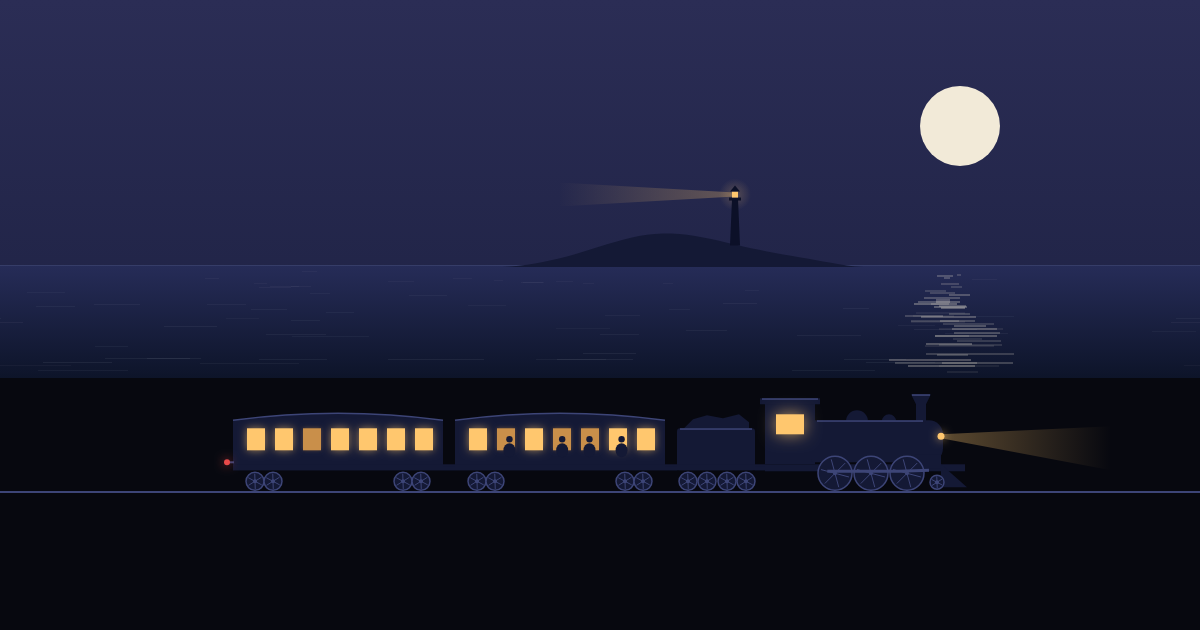
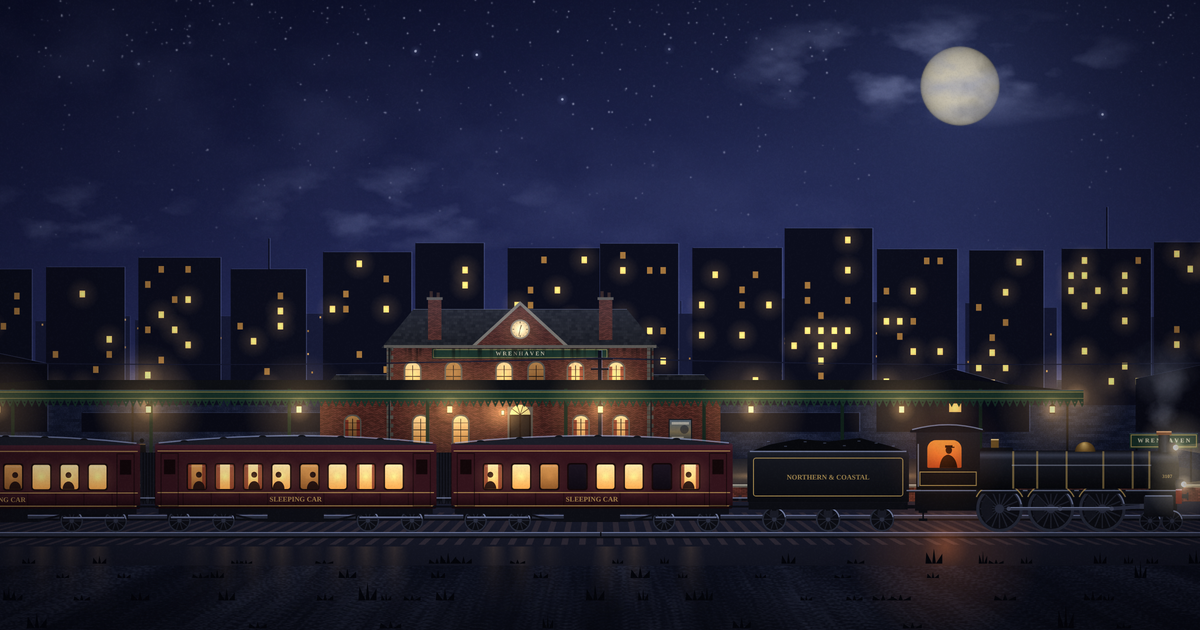
Rebuild 7: mobile, performance, share links, preview image
- Fix phones zooming out to empty sky: canvas fixed to the screen
- Cap pixel ratio at 2; drop to fewer pixels when frames are slow
- Skip drawing tunnel hills while they are off screen
- Share links: ?journey=<seed> replays a journey, Share button
- Smaller text and buttons on short screens
- New og.png and meta description
- README rewritten in the style of the other project READMEs, with a banner drawn from the scene's own code

diff --git a/main.js b/main.js
@@ -3,16 +3,44 @@ let activeWeather;
 let activeBiome;
 let layers = [];
 
+// Phone screens can have three pixels for every CSS pixel. Past two, the
+// difference can't be seen, but it costs more than twice the work.
+const maxPixelRatio = 2;
+
+// Lowered when the device can't keep up, so the scene is drawn with fewer
+// pixels and stretched to fill the screen.
+let renderScale = 1;
+
 function resize() {
-  const pixelRatio = window.devicePixelRatio || 1;
-  canvas.width = window.innerWidth * pixelRatio;
-  canvas.height = window.innerHeight * pixelRatio;
-  canvas.style.width = window.innerWidth + "px";
-  canvas.style.height = window.innerHeight + "px";
+  const pixelRatio = Math.min(window.devicePixelRatio || 1, maxPixelRatio) * renderScale;
+  canvas.width = Math.round(window.innerWidth * pixelRatio);
+  canvas.height = Math.round(window.innerHeight * pixelRatio);
   ctx.scale(pixelRatio, pixelRatio);
   updateCamera();
   createFinish();
   if (journey) buildSky();
+}
+
+// Every few seconds, check the average frame time. Slower than 40 frames a
+// second, drop to fewer pixels, down to half.
+const slowFrameSeconds = 1 / 40;
+const speedCheckSeconds = 3;
+let secondsMeasured = 0;
+let framesMeasured = 0;
+
+function checkSpeed(dt) {
+  // The first seconds are skipped while the page settles in.
+  if (motion.clock < 2) return;
+  secondsMeasured += dt;
+  framesMeasured++;
+  if (secondsMeasured < speedCheckSeconds) return;
+  const averageFrameSeconds = secondsMeasured / framesMeasured;
+  secondsMeasured = 0;
+  framesMeasured = 0;
+  if (averageFrameSeconds > slowFrameSeconds && renderScale > 0.5) {
+    renderScale -= 0.15;
+    resize();
+  }
 }
 
 let lastTime = 0;
@@ -28,6 +56,7 @@ function loop(currentTime) {
   updateTimeline(dt);
   updateSound(dt);
   draw();
+  checkSpeed(dt);
 
   requestAnimationFrame(loop);
 }
@@ -48,6 +77,50 @@ function draw() {
   drawTunnel();
   drawFinish();
 }
+
+// A journey can be shared as a link: ?journey=1234 replays journey 1234.
+function getSeedFromLink() {
+  const text = new URLSearchParams(location.search).get("journey");
+  if (text === null) return null;
+  const seed = Number(text);
+  if (Number.isInteger(seed) && seed >= 0) return seed;
+  return null;
+}
+
+// The address bar always holds the journey on screen, ready to be shared.
+function updateLink() {
+  try {
+    history.replaceState(null, "", `?journey=${journey.seed}`);
+  } catch {
+    // Some browsers refuse this for pages opened from disk. Nothing breaks.
+  }
+}
+
+const shareButton = document.getElementById("share");
+
+function flashShareButton(text) {
+  shareButton.textContent = text;
+  setTimeout(() => (shareButton.textContent = "Share"), 2000);
+}
+
+// Phones get their own share menu; elsewhere the link is copied.
+shareButton.addEventListener("click", async () => {
+  const isTouchScreen = window.matchMedia("(pointer: coarse)").matches;
+  if (navigator.share && isTouchScreen) {
+    try {
+      await navigator.share({ title: "Sleeper", text: createJourneyLabel(journey), url: location.href });
+    } catch {
+      // Closing the share menu counts as an error. Nothing to do.
+    }
+    return;
+  }
+  try {
+    await navigator.clipboard.writeText(location.href);
+    flashShareButton("Link copied");
+  } catch {
+    flashShareButton("Copy the address");
+  }
+});
 
 const journeyLabel = document.getElementById("journey-label");
 
@@ -78,7 +151,7 @@ window.addEventListener("resize", () => {
 createGroundPattern();
 createFogTexture();
 resize();
-startJourney(randomSeed());
+startJourney(getSeedFromLink() ?? randomSeed());
 showJourneyLabel();
 if (prefersReducedMotion) {
   // A still frame has nothing happening to hear.

diff --git a/index.html b/index.html
@@ -4,18 +4,18 @@
   <meta charset="UTF-8">
   <meta name="viewport" content="width=device-width, initial-scale=1">
   <title>Sleeper</title>
-  <meta name="description" content="A night train you watch from outside. Every journey is different: city lights, pine forest, open fields, a moonlit coast and mountains, in clear skies, rain or snow. Everything on screen is drawn by code.">
+  <meta name="description" content="A night train you watch from outside. Every journey is different: stations, tunnels, five landscapes and four weathers. Everything you see and hear is made by code.">
   <meta name="theme-color" content="#090b18">
   <meta name="color-scheme" content="dark">
 
   <meta property="og:type" content="website">
   <meta property="og:title" content="Sleeper">
-  <meta property="og:description" content="A night train you watch from outside. Every journey is different: city lights, pine forest, open fields, a moonlit coast and mountains, in clear skies, rain or snow. Everything on screen is drawn by code.">
+  <meta property="og:description" content="A night train you watch from outside. Every journey is different: stations, tunnels, five landscapes and four weathers. Everything you see and hear is made by code.">
   <meta property="og:url" content="https://bytiagodev.github.io/sleeper/">
   <meta property="og:image" content="https://bytiagodev.github.io/sleeper/og.png">
   <meta property="og:image:width" content="1200">
   <meta property="og:image:height" content="630">
-  <meta property="og:image:alt" content="A lit steam train crossing a moonlit landscape at night">
+  <meta property="og:image:alt" content="A sleeper train standing at a city station at night">
   <meta name="twitter:card" content="summary_large_image">
 
   <!-- The icon is written inline as a vector, so it needs no image file. -->
@@ -35,6 +35,7 @@
     </div>
     <div class="buttons">
       <button id="sound-toggle" type="button" aria-pressed="false">Sound: off</button>
+      <button id="share" type="button">Share</button>
       <button id="new-journey" type="button">New journey</button>
     </div>
   </div>

diff --git a/js/tunnels.js b/js/tunnels.js
@@ -53,6 +53,7 @@ function createTunnelLayers(mouthX, direction, seed) {
   const hillLayer = {
     z: hillFrontZ,
     draw() {
+      if (!isHillOnScreen(mouthX, direction)) return;
       drawHillside(mouthX, direction, seed, hillColor);
       const faceIsVisible = (mouthX - travelled) * direction > 0;
       if (faceIsVisible) {
@@ -63,6 +64,17 @@ function createTunnelLayers(mouthX, direction, seed) {
   };
 
   return [wingWallLayer, hillLayer];
+}
+
+// The hill runs from its mouth away in `direction`. It is off screen while
+// its mouth, at every distance from the front to the crest, is past the
+// edge it runs away from. The margin leaves room for trees on the crest.
+function isHillOnScreen(mouthX, direction) {
+  const margin = 5 * scaleAt(hillCrestZ);
+  const mouthNear = screenXAt(mouthX, hillFrontZ);
+  const mouthFar = screenXAt(mouthX, hillCrestZ);
+  if (direction > 0) return Math.min(mouthNear, mouthFar) < window.innerWidth + margin;
+  return Math.max(mouthNear, mouthFar) > -margin;
 }
 
 // The face, drawn flat as if seen straight on. Across the image is the

diff --git a/style.css b/style.css
@@ -8,8 +8,14 @@ body {
   background: #090b18;
 }
 
+/* Fixed to the screen, so the canvas can never push the page wider than
+   the phone and make it zoom out. */
 canvas {
+  position: fixed;
+  inset: 0;
   display: block;
+  width: 100%;
+  height: 100%;
 }
 
 /* The only text on screen: the journey's name and two buttons, low in the
@@ -101,6 +107,28 @@ canvas {
 
   #journey-label {
     font-size: 14px;
+  }
+}
+
+/* A phone on its side has little room under the rails, so everything
+   shrinks to fit there. */
+@media (max-height: 500px) {
+  .chrome {
+    bottom: 10px;
+  }
+
+  #journey-label {
+    font-size: 12px;
+  }
+
+  #station-label {
+    margin-top: 2px;
+    font-size: 10px;
+  }
+
+  .buttons button {
+    padding: 6px 12px;
+    font-size: 11px;
   }
 }
 

diff --git a/js/timeline.js b/js/timeline.js
@@ -86,6 +86,7 @@ function startJourney(seed, secondsInDark = 0) {
   weatherBands = createWeatherBands();
   buildSky();
   showDepartureStation(secondsInDark);
+  updateLink();
 }
 
 function enterTunnel(nextSeed) {

diff --git a/README.md b/README.md
@@ -1,123 +1,37 @@
-# Sleeper
+<p align="center">
+  <img src="assets/sleeper-banner.webp" alt="Sleeper, a night train you watch from outside" width="100%" />
+</p>
 
-A night train you watch from outside.
+<p align="center"><a href="https://bytiagodev.github.io/sleeper/"><strong>Board the train</strong></a></p>
 
-**[Take a ride](https://bytiagodev.github.io/sleeper/)**
+---
 
-A steam train crosses the frame while a generated world scrolls past behind it: city lights, pine forest, open fields, a moonlit coast, mountains. Everything on screen is drawn by code. The scene uses no image files, no frameworks and no build step. The one image in the repository, `og.png`, is the preview shown when the link is shared, and it is a screenshot of the scene itself.
+Sleeper is a night train you watch from outside. A steam train pulls out of a country station, crosses a world that is generated as it goes, stops at the next platform and disappears into a tunnel. Every picture and every sound in it is made by code. The scene loads no image or audio files, and there are no frameworks and no build step.
 
-> Sleeper is being rebuilt. `concept/sleeper-concept.png` is the target: textured ground, a real track, a detailed locomotive with steam, stations, tunnel portals, fog and sound. See the roadmap below.
+## The route
 
-## Run it
+Each journey passes through two to four landscapes: city, forest, fields, coast and mountains. The weather is clear, rain, snow or fog, and each has its own air, so a far ridge stays sharp on a clear night while a tree 150 metres away is half gone in fog.
 
-Open `index.html` in a browser, or visit the link above. Nothing to install.
+Half the landscapes have a station, with a brick building, a clock set to the departure time and a signal that drops to green when it is time to go. The train brakes to stop exactly on its mark, passengers get on and off, and compartments light up or go dark. Each landscape ends at a grassy hill with a stone tunnel mouth, and the next one is built in the dark while the train is inside.
 
-Press **New journey** for a different ride. Each journey has its own name in the corner, like *the 23:21 from the deep wood to the long valleys, in steady rain*.
+## The timetable
 
-If your system asks for reduced motion, Sleeper shows a single still frame of the journey instead of the moving scene. **New journey** then shows a new still.
+A journey is a single number. The same number always gives the same landscapes, weather, train, stations and passengers, so a journey can be shared as a link: `?journey=4242` is always the same ride. **Share** copies it, **New journey** starts another, and **Sound** turns on the chuffs, the rail joints, the brakes, the doors and the whistle.
 
-While developing, in `main.js`:
+## The engine room
 
-- To replay one journey, change `startJourney(randomSeed())` at the bottom of `main.js` to a fixed number, such as `startJourney(2)`.
-- To force a weather, change `activeWeather = journey.weather` inside `startJourney` in `js/timeline.js` to `"clear"`, `"rain"`, `"snow"` or `"fog"`.
-- To reach the tunnels faster, shorten the biome time in `generateJourney` in `js/journey.js` (`50 + random() * 30` seconds). Each landscape is that many seconds at cruising speed, measured out in metres.
-- To see a station sooner, raise the station chance in the same function (`random() < 0.5`).
-- To move the camera, change `height` and `trackZ` in `js/camera.js`. Every size and speed in the scene follows from those two numbers.
+Everything is measured in metres. The camera stands 12 metres from the track and 6 metres up, and something twice as far away is drawn half as big and slides past half as fast. No tree, pole or building has a size or speed picked by hand.
 
-## What is in it
+Detail is drawn once. A station building has thousands of bricks and a tunnel mouth hundreds of stones, so each is drawn by code into its own image when it is created, and every frame only that image is placed at its distance.
 
-**Five landscapes**, each built from layers at real distances, so the near ones rush past and the far ones barely move:
+Sound comes from noise and tones. Filtered noise becomes wind, rain, steam or a knock, oscillators make the whistle and the brake squeal, and inside a tunnel everything goes through an echo.
 
-- **City:** two rows of towers with lit and dim windows, warehouses and yard walls closer in, and a street of lamps alongside the line, each throwing a pool of light on the road.
-- **Forest:** three rows of spruces, pale and slow at the back, dark and fast at the front, with bushes just behind the track.
-- **Fields:** low hills, furrows that converge toward the horizon, farms with a barn and silo, hedgerows with gaps for gates, lone trees and a fence.
-- **Coast:** a sea with a shimmering moon reflection and waves at every distance, surf breaking along the shore, rocks on the beach, and headlands with a lighthouse and a sweeping beam.
-- **Mountains:** layered ranges with sharp peaks and a rim of moonlight, foothills with farm lights, pine forest on the lower slopes and a few pines by the line.
+## Running it
 
-**The train.** A steam locomotive, its tender and one to three sleeping cars in maroon, green or blue, all drawn to scale in metres. The driving wheels carry counterweights and a coupling rod, and a connecting rod drives a crosshead that slides back and forth as the wheels turn. The fire glows through the cab, two lamps light the way ahead, and smoke leaves the chimney four times per turn of the wheels and trails back over the train. Some compartments are lit, some dim and some already dark; light from the windows falls on the ground in front of the train. Each vehicle rocks a little on its own springs.
+Open `index.html` in a browser. The code is plain JavaScript split into one file per part of the scene, under `js/`, loaded in order by the page.
 
-**Weather.** Clear, rain, snow or fog, chosen by the journey. Each weather has its own air: on a clear night the far mountains are still sharp, while in fog a tree 150 m away is already half gone.
+---
 
-- **Rain:** angled streaks, a darker world, a wider glow around the windows and drops sliding down the carriage glass.
-- **Snow:** drifting, swaying flakes, settled snow on the ground, and snow caps on the mountain peaks.
-- **Fog:** banks of fog lying at every distance, even between the train and the camera, drifting slowly. Stars disappear, the moon blurs, and every lamp glows twice as wide.
-
-**Tunnels.** A journey passes through two to four landscapes, each about half a kilometre of line, and loops when it reaches the end. Each landscape ends at a hill with a stone tunnel mouth. The train drives into the arch and the hill closes over it; once half the train is inside, the camera follows it in and the screen goes dark, with only the train's lights and the lamps on the tunnel wall showing. The next landscape is built in the dark, and the train comes out of a hillside into it. **New journey** fades the whole frame to black and the new train is found standing at a station, ready to leave on a different ride.
-
-**Stations.** Half of all landscapes have a country station on the far side of the line: a platform with a canopy and lamps, a station building with its name, people waiting, name boards at each end and a semaphore signal. The train brakes, stops with its whole length alongside the platform, waits twelve seconds with the signal at red, then the signal drops to green and the train pulls away. The station's name shows under the journey's name while it stops. While it stands there, some passengers get off and people from the platform get on, one at a time, so compartments light up and empty, and the people who got off are left on the platform as it leaves.
-
-Every journey, including one started with New journey, begins with the train standing at a station, ready to leave.
-
-**Sound.** Press **Sound** to hear it; browsers only allow sound after a click, so it starts off. Every sound is made in the browser, with no recordings: the chuff of the chimney in time with the wheels, heavy at a standstill and quick at speed; the clickety-clack of each axle crossing a rail joint; brake squeal as the train comes to a stop; steam hissing while it stands; doors as passengers get on and off; the whistle when leaving a station, braking for one and before a tunnel; wind in gusts, and rain in the rain. Inside a tunnel the outside sounds fade and the train echoes off the walls. Each sound comes from the side of the screen it happens on.
-
-**Seeded journeys.** A journey is a number. The same number always produces the same biome sequence, landscapes, weather, time and train, which is what will make journeys shareable by link.
-
-## How it works
-
-- **Plain scripts, no build.** `index.html` loads the files in `js/` in order, then `main.js`. They are plain scripts rather than modules, so the page still runs when opened straight from disk. Later files use what earlier files define.
-
-| File | What it does |
-| --- | --- |
-| `js/random.js` | Seeded random numbers, a hash and one-dimensional noise |
-| `js/camera.js` | Turns metres into pixels. The only place that does |
-| `js/journey.js` | Rolls a journey from its number, and names it |
-| `js/textures.js` | Drawing textures once, glows, the textured ground, the moonlit-edge trick, vignette and grain |
-| `js/sky.js` | Sky, stars, moon, clouds and the ground plane |
-| `js/track.js` | Ballast, sleepers, rails, telegraph poles and the grass in front |
-| `js/biomes/*.js` | The five landscapes, and `builders.js`, which assembles them |
-| `js/motion.js` | How the train moves: running, braking for a station, and standing at it |
-| `js/prerender.js` | Drawing detailed buildings once, ahead of time, in metres: bricks, stone, ivy, stains, lamplight, lettering |
-| `js/stations.js` | Stations: platform, canopy, building, people, name boards and signal |
-| `js/tunnels.js` | Tunnel mouths, the hill they go through, and the lamps inside |
-| `js/train.js` | The train as a whole: its vehicles, where it sits on screen, wheels, light on the ground |
-| `js/carriages.js` | Sleeping cars, their windows and passengers |
-| `js/passengers.js` | Who gets on and off at each station, and when |
-| `js/locomotive.js` | The locomotive, its rods and lamps, and the tender |
-| `js/smoke.js` | Smoke from the chimney |
-| `js/atmosphere.js` | Haze with distance, the air for each weather, and fog banks |
-| `js/weather.js` | Rain and snow |
-| `js/timeline.js` | The order of landscapes, stations and tunnels along a journey |
-| `js/sound.js` | Every sound, made in the browser with the Web Audio API |
-| `main.js` | Speed, the frame loop and the order things are drawn in |
-
-- **Everything is measured in metres.** The camera stands 12 metres from the track and 6 metres up. Something `z` metres away is drawn `focal / z` pixels per metre and slides past at the same rate, so size and speed always agree. A fence post is 1.3 m, a telegraph pole 8 m, a pine 15 to 27 m, and they all look right next to the train because none of them is sized by hand. The ground follows the same rule: flat ground `z` metres away sits `height × focal / z` pixels below the horizon, which is why the sleepers narrow towards the far rail and the furrows all point at one spot on the horizon.
-- **One distance, one source.** The train's wheels, the sleepers and every layer move by the same metres travelled. The wheels can no longer slide over the ground, and nothing has a hand-tuned scroll speed.
-- **Speed with momentum.** The train eases towards a cruising speed that drifts a little, so the ride never feels mechanical.
-- **Braking to the mark.** A train slowing at a steady rate needs v² / 2a metres to stop. The train starts braking when the station's stopping mark is that far away, then every frame uses the same formula turned around, a = v² / 2d, to brake exactly as hard as the distance left needs. It always stops on the mark.
-- **Detail drawn ahead of time.** Everything is still generated by code, from the journey's seed; nothing is a hand-made picture. A station building has thousands of bricks; a tunnel mouth has hundreds of stones, ivy and soot. Each is drawn once by code, in metres, into its own image when it is created, faded for the weather, and every frame only that image is drawn at its distance. The station clock shows the time the journey left.
-- **A tunnel in perspective.** The tunnel mouth's stone face stands at right angles to the track, so it is seen foreshortened, and only while the camera is on its open side. Its prerendered image is drawn in thin vertical strips: for each strip of screen, the distance it shows is worked out, that column of the image is taken, and it is stretched to the height that distance gives it. The hill's slope rises from just in front of the track to a crest behind it, so it covers the train as it goes in.
-- **Scenery from the slot number, not a list.** The world is cut into slots along the line, and the slot's number is the seed for what stands there: the tree in slot 812 is always the same tree. Any stretch of the line can be drawn without generating what came before it, so the scenery never repeats and needs no wrapping. Ridges and skylines use smooth noise along the line, measured in metres, so a mountain keeps its shape as it drifts by.
-- **Seeded random numbers.** `Math.random` can't be replayed, so the scene uses `hash` instead: it takes the sine of a large number and keeps the decimals, which gives a random-looking value between 0 and 1 that is always the same for the same inputs. `seededRandom(seed)` wraps it into a sequence that can be replayed from the start.
-- **Particle pool.** Every raindrop and snowflake is created once. When one lands it is moved back above the screen and reused, so no memory is allocated while the scene runs.
-- **Textures are drawn once.** Sky, moon, clouds, the ground texture, glows and the grain are drawn pixel by pixel when the page loads or the window changes size, then reused every frame. The sky and stars are a single image; only a few bright stars are drawn live so they can twinkle.
-- **Textured ground in perspective.** The ground is drawn in thin strips. Each strip is a slice of one repeating texture, stretched to the scale of its distance and shifted by how far the train has gone, so near ground rushes past and far ground creeps.
-- **Glows add light.** Every lamp and lit window stamps a soft glow drawn once per colour, drawn with the "lighter" blend so the glow brightens what is under it.
-- **Moonlit edges.** Trees, buildings and poles are filled once in moonlight, shifted a pixel up and to the right, then again in their own colour, which leaves a thin lit edge on the moon's side.
-- **Haze with distance.** Every colour in the landscape is faded towards the colour of the air by how far away it is, using `hazed(colour, distance)`. How quickly things fade depends on the weather. Windows and lamps fade more slowly, because they give off their own light.
-- **Batched drawing.** Each row of trees, each set of sleepers and each weather band is one path and one draw call.
-- **The train in metres.** Before the train is drawn, the canvas is moved to its left end at rail height and scaled so one unit is one metre, so the train is measured the same way as the world around it.
-- **Smoke follows the wheels.** A puff leaves the chimney every quarter turn of the driving wheels. Once out, the smoke stays where it is while the train moves on, so it trails back along the train as it rises and spreads.
-- **Journey timeline.** Each landscape is a stretch of line in metres, from one tunnel to the next, with a station halfway along if it has one. The new landscape is built halfway through the tunnel, while the screen is dark, with its exit placed just ahead of the locomotive, so the swap is never seen.
-- **Sound from noise and tones.** Every sound starts as noise (random values) or a plain tone. A filter turns noise into wind (only the low part kept), rain (the middle), steam (the high part) or a knock (a short burst). Steady sounds loop for ever and only their volume changes each frame; short ones are started at the moment they happen. The tunnel echo plays every train sound through a burst of fading noise, which is how a hard-walled space blurs a sound.
-- **Journey names.** Each journey's name is built from its departure time, its landscapes and its weather. The name has its own seeded random stream, so naming a journey never changes the journey.
-- **Fits any screen.** The camera is sized to the window, so a resize only needs a new camera. On a narrow screen the locomotive stays in view while the tail runs off the edge.
-
-## Roadmap
-
-The first version is in the git history (canvas, layers, seeded journeys, five landscapes, the train, weather, tunnel fades, names). The rebuild:
-
-- [x] **Rebuild 1.** Split the single script into files, and a camera in metres: correct scale and speed for everything, a real track with sleepers and two rails, telegraph poles, grass in front of the line
-- [x] **Rebuild 2.** Textures and light: noise textures made once at startup, glows, moonlit edges, stars, a textured moon, clouds, a textured ground
-- [x] **Rebuild 3.** The train rebuilt: real proportions, spoked wheels with rods that move like real ones, liveries, firebox glow, window light on the ground, smoke
-- [x] **Rebuild 4.** The five landscapes rebuilt on the new system, with fog as a fourth weather and haze with distance
-- [x] **Rebuild 5.** Braking and stations, and real tunnels with portals the train disappears into
-- [x] **Rebuild 6.** Sound made in the browser: puffs timed to the wheels, rail joints, brakes, the whistle, echo in tunnels, rain and wind
-- [ ] **Rebuild 7.** Performance, mobile, journeys shared by link, a new preview image
-
-## Palette
-
-Dusk sky `#2b2d55` to `#151a38`, far silhouettes `#0c0e1c`, near silhouettes `#05060d`, lit windows `#ffc76e`, moon `#f2ead8`, rain `#9fb0d8`, snow `#e8ecf4`. Far layers sit close to the sky tone and nearer ones get darker, so depth reads as atmosphere.
-
-## License
-
-MIT. See `LICENSE`.
+<p align="center">
+  <sub>Code under the <a href="LICENSE">MIT licence</a> · Built by <a href="https://bytiago.com/en/">Tiago Teixeira</a></sub>
+</p>
